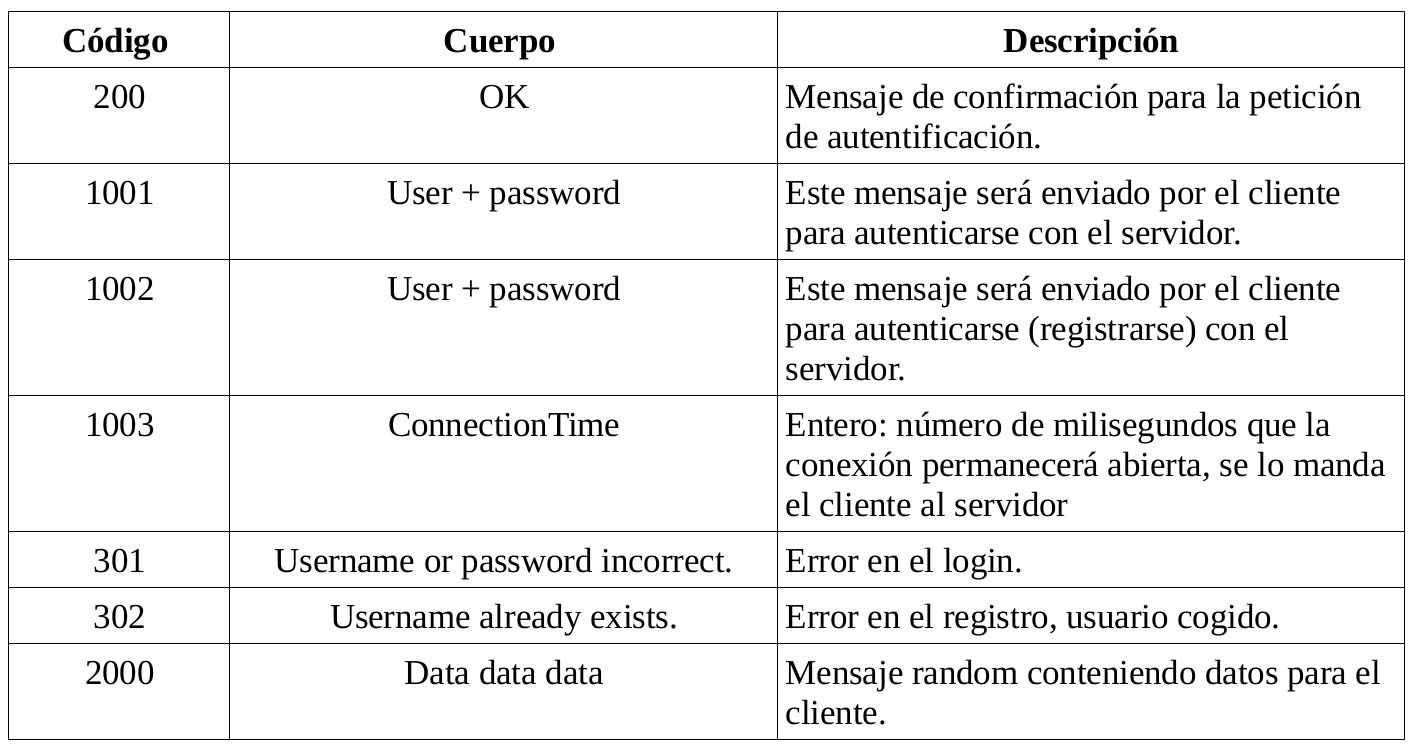
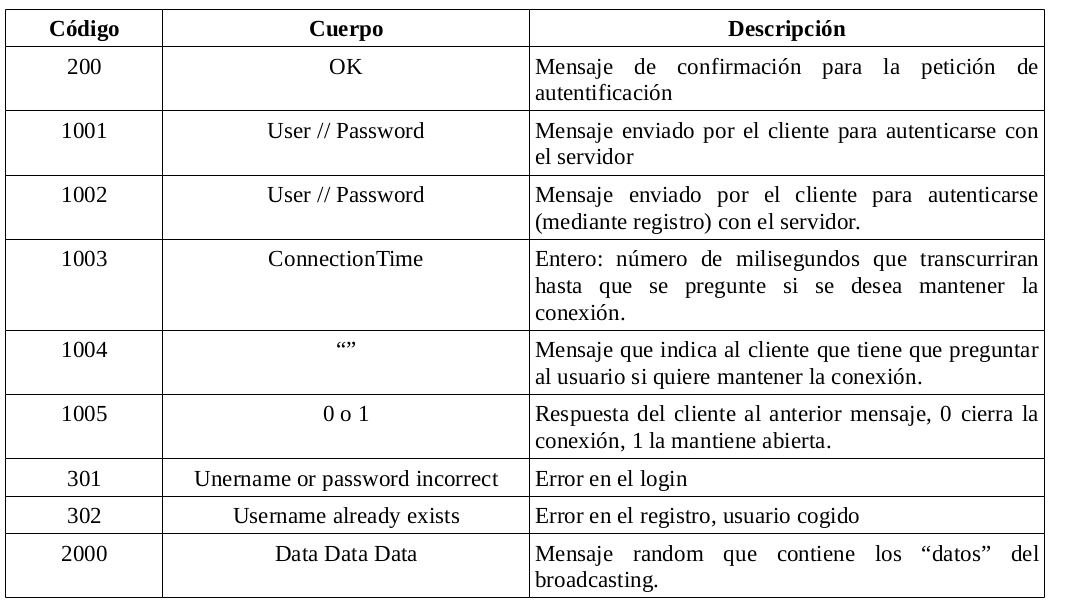
terminado todo lo relacionado a la practica II

diff --git a/FR/Prácticas/Práctica 0/memoria.tex b/FR/Prácticas/Práctica 0/memoria.tex
@@ -1,0 +1,203 @@
+%%%%%%%%%%%%%%%%%%%%%%%%%%%%%%%%%%%%%%%%%
+% University Assignment Title Page 
+% LaTeX Template
+% Version 1.0 (27/12/12)
+%
+% This template has been downloaded from:
+% http://www.LaTeXTemplates.com
+%
+% Original author:
+% WikiBooks (http://en.wikibooks.org/wiki/LaTeX/Title_Creation)
+%
+% License:
+% CC BY-NC-SA 3.0 (http://creativecommons.org/licenses/by-nc-sa/3.0/)
+% 
+% Instructions for using this template:
+% This title page is capable of being compiled as is. This is not useful for 
+% including it in another document. To do this, you have two options: 
+%
+% 1) Copy/paste everything between \begin{document} and \end{document} 
+% starting at \begin{titlepage} and paste this into another LaTeX file where you 
+% want your title page.
+% OR
+% 2) Remove everything outside the \begin{titlepage} and \end{titlepage} and 
+% move this file to the same directory as the LaTeX file you wish to add it to. 
+% Then add \input{./title_page_1.tex} to your LaTeX file where you want your
+% title page.
+%
+%%%%%%%%%%%%%%%%%%%%%%%%%%%%%%%%%%%%%%%%%
+%\title{Title page with logo}
+%----------------------------------------------------------------------------------------
+%	PACKAGES AND OTHER DOCUMENT CONFIGURATIONS
+%----------------------------------------------------------------------------------------
+
+\documentclass[12pt]{article}
+\usepackage[english]{babel}
+\usepackage[utf8x]{inputenc}
+\usepackage{amsmath}
+\usepackage{graphicx}
+\usepackage[colorinlistoftodos]{todonotes}
+
+
+
+\begin{document}
+
+
+\begin{titlepage}
+
+\newcommand{\HRule}{\rule{\linewidth}{0.5mm}} % Defines a new command for the horizontal lines, change thickness here
+
+\center % Center everything on the page
+ 
+%----------------------------------------------------------------------------------------
+%	HEADING SECTIONS
+%----------------------------------------------------------------------------------------
+
+\textsc{\LARGE Universidad de Granada}\\[1.5cm] % Name of your university/college
+\textsc{\large Fundamentos de Redes}\\[0.5cm] % Minor heading such as course title
+
+%----------------------------------------------------------------------------------------
+%	TITLE SECTION
+%----------------------------------------------------------------------------------------
+
+\HRule \\[0.4cm]
+{ \huge \bfseries Dropbox}\\[0.4cm] % Title of your document
+\HRule
+
+\includegraphics[scale=0.19]{logo.png}
+ 
+%----------------------------------------------------------------------------------------
+%	AUTHOR SECTION
+%----------------------------------------------------------------------------------------
+\begin{flushleft} \large
+\emph{Autores:}\\
+Antonio Gámiz Delgado \\
+Samuel Medina Gutiérrez \\
+Laura Sánchez Parra
+\end{flushleft}
+
+% If you don't want a supervisor, uncomment the two lines below and remove the section above
+%\Large \emph{Author:}\\
+%John \textsc{Smith}\\[3cm] % Your name
+
+
+%----------------------------------------------------------------------------------------
+%	LOGO SECTION
+%----------------------------------------------------------------------------------------
+
+
+ 
+%----------------------------------------------------------------------------------------
+
+\vfill % Fill the rest of the page with whitespace
+
+\end{titlepage}
+
+\tableofcontents
+\newpage
+
+\section{Introducción}
+
+Antes de hablar de Dropbox, vamos a comentar brevemente qué es el almacenanmiento en la nube y algunas formas de implementarlo:
+
+Cloud-Storage es un modelo de servicio en el cual los datos son mantenidos, distribuidos, administrados y puestos a la disposición de los usuarios en una red (normalmente Internet). Los usuarios normalmente pagan por este servicio según su consumo, mensualmente, es decir, si quieres tener 5GB de almacenamiento en la nube, deberás pagar esos 5GB cada mes. 
+Aunque el coste por cada GigaByte ha descendido enormemente, los proveedores de cloud storage han añadido más gastos “operativos” que puede hacer esta tecnología un poco más cara. Entre, los que por ejemplo, se encuentra la seguridad, que está siempre presente y en constante mejora ya que es una de las principales preocupaciones de los usuarios.
+
+Este sistema presenta varias ventajas, como la facilidad de acceso a los datos desde cualquier punto con conexión a Internet, desde muchos tipos de dispositivos, la facilidad de recuperación de datos y el ahorro de los costes que conlleva comprar y mantener los propios sistemas de almacenamiento.
+
+\section{Principales Sistemas de Almacenamiento.}
+
+Un sistema de almacenamiento consiste en habilitar uno o varios discos duros de una red local (que a su vez puede estar conectada a Internet) de manera que los datos que allí se almacenen permanezcan accesibles a todos los dispositivos que deseen utilizarlos. De esta forma el usuario dispone de un almacenamiento común con el resto de usuarios.
+La cuestión se complica cuando hay que definir la forma en que los distintos tipos de almacenamiento de datos gestionan esa conexión a tu red local.
+
+\subsection{NAS - Network Attached Storage.}
+
+Este sistema incorpora su propio sistema de conexión y recepción de petición de acceso a los datos, eliminando a los servidores de la ecuación. Los sistemas de almacenamiento NAS se conectan directamente al router (en local, LAN) mediante TCP/IP.
+
+\subsection{SAN - Storage Area Network.}
+
+
+Como un NAS, SAN traspasa la responsabilidad del almacenamiento de los datos de servidores y ordenadores a dispositivos de almacenamiento dedicados. Pero a diferencia de NAS, que es un dispositivo independiente, un SAN es una red de dispositivos de almacenamientos interconectados. Ambos son accedidos a través de la red local a la que están conectados.
+
+Este tipo de sistema usa dos protocolos:
+\begin{itemize}
+\item Protocolo de canal de fibra (FCP): es la interfaz del protocolo SCSI (Small Computer System Interface) usando conexión de fibra óptica por debajo. Protocolo de alta velocidad que soporta la mayoría de canales y redes, ya que provee un estándar para el almacenamiento y la transferencia de datos.
+\item Interfaz SCSI (iSCSI): protocolo que usa TCP/IP para la transferencia de datos. A diferencia del canal de fibra, solamente requiere Ethernet (o cualquier otra red compatible con TCP/IP) para funcionar. Esto permite soluciones menos costosas.
+\end{itemize}
+
+Dado que Dropbox es una empresa privada, nadie sabe exactamente cómo implementan su servicio de almacenamiento, pero se cree que usan mayormente SAN.
+
+\section{Dropbox}
+
+\subsection{¿Qué es Dropbox?}
+Dropbox se define a si mismo como una CDN (Content Delivery Network), es decir, un conjunto de servidores que contienen copias de una misma serie de contenidos (imágenes, vídeos, documentos, etc) y que están ubicados en puntos diversos de una red para poder servir sus contenidos de manera más eficiente. Normalmente usan protocolos TCP/IP y TLS que reducen la latencia.
+\subsection{Edge Network}
+Para facilitar al usuario una mejor experiencia, se emplean protocolos TCP/IP y TLS más cercanos a los usuarios, ya que reducen la latencia, es decir, los retardos. Dropbox está formado por una serie de PoPs (Points of Presence) situados estratégicamente alrededor del mundo para reducir los tiempos de retardo.
+
+Por lo que, la Edge Network de Dropbox es, el conjunto de PoPs que permiten reducir los tiempos de latencia.
+
+\subsection{GSLB - Global Server Load Balancing}
+
+¿Cómo distribuye Dropbox los usuarios entre los Pops? Utiliza GSLB, normalmente GSLB envía cada usuario al Pop más cercano, a no ser que el Pop este inhabilitado.
+
+\subsubsection{BGP anycast}
+Anycast es el método más fácil de loadbalancing. Usa el protocolo de routing del núcleo de Internet, BGP (Border Gateway Protocol - protocolo meidente el cuál se intercambia información de encaminamiento entre sistemas autónomos). Para empezar a usar anycast es suficiente con empezar a "publicar" la misma subred desde todos los PoPs e Internet entregerá cada paquete al PoP "óptimo" automáticamente. Aunque parece ser un muy buen método, tiene varias desventajas, como el limitado control que se tiene sobre el tráfico y es difícil mover tráfico implícitamente de un PoP a otro.
+
+BGP anycast en Dropbox: debido a sus desventajas, sólo se usa para los dominos APEX, como dropbox.com (sin www) y como "último recurso" en caso de un ataque DDoS.
+
+\subsubsection{GeoDNS}
+En este método cada PoP tiene su propio y único espacio de direcciones IP y DNS es el responsable de asignar a IP diferente a cada usuario basado en su localización geográfica. Esto nos da más control sobre la dirección del tráfico, además, la configuración es más fácil y la solución de problemas es más simple.
+
+GeoDNS en Dropbox: En este momento, están trabajando con el enrutamiento basado en LatLong (coordenadas geográficas), que es relativamente complejo.
+
+\subsubsection{Hybrid unicast/anycast GSLB}
+
+Combinación de las dos anteriores, que permite beneficiarse de las ventajas de los dos métodos.
+
+\subsubsection{Real User Metrics}
+Los métodos anteriores tienen un problema: ninguno de ellos usa datos de performance (actuación) percibido por los usuarios, sino que dependen en aproximaciones. Para arreglar eso, RUM usa datos de de las performances de los clientes de escritorio.
+
+RUM en Dropbox: todavía es un proyecto en evolución que todavía no está implementado para el público general, pero se están realizando experimentos y recogiendo datos de los métodos anteriores para poder llegar a usar hasta 25-30 PoPs.
+
+\subsection{Backbone Network}
+
+Junto con la edge network, Dropbox ha creado una backbone network que permite la interconexión entre los data centers de Norte América, pero no sólo entre ellos, sino también con los nodos edge alrededor del mundo. ¿Por qué fue necesario crear tanto una edge network como una backbone network? Debido al número de usuarios  y la cantidad de datos que almacena cada uno de ellos y sobre todo al masivo crecimiento de los mismos, que hacía cada vez menos eficiente el almacenamiento en Dropbox. 
+
+\subsection{Tipos de routers}
+La red troncal de Dropbox consta de enrutadores con tres funciones distintas:
+\begin{itemize}
+\item Enrutadores del centro de datos (DR): con una función principal de conectar el centro de datos a la red troncal.
+\item Enrutadores de red troncal (BB): que actúan como un punto de terminación para circuitos de larga distancia y también como dispositivos de agregación para DR en regiones donde tenemos centros de datos.
+\item Peering Routers (PR): con una función principal de conectar Dropbox a pares BGP externos para proporcionar conectividad a Internet
+\item Data Centers (DC): para conectar los data centers.
+\end{itemize}
+
+\subsection{Arquitectura de 2 niveles}
+
+La red de Dropbox tiene dos tipos de tráfico: "tráfico de usuario" el cuál fluye entre Dropbox e Internet, y "tráfico del data center", el cuál fluye entre los data centers de Dropbox.
+
+En la nueva arquitectura, existen dos dominios de red para manejar cada tipo de tráfico de forma independiente. El nivel DC lleva el tráfico del centro de datos, mientras que el nivel DR se usa para transportar el tráfico de usuarios, principalmente desde Dropbox a Internet. Cada nivel tiene su propia malla BGP, pero se conectan al mismo conjunto de enrutadores de red troncal (BB), que comparten la misma red de transporte físico.
+
+El tráfico entre data centers es aproximadamente el doble del tráfico de usuarios y ambos tienen características diferentes. El tráfico del centro de datos consiste en servicios internos que se comunican entre sí o que copian datos de un centro de datos a otro. El tráfico de usuarios siempre se está transportando desde los DR a un punto de presencia, y se trata como tráfico premium. El despegue del tráfico interno de Dropbox a su propio nivel ha permitido una clara separación entre los dos tipos de tráfico, lo que ayuda a crear perfiles de tráfico y topologías de red que son únicas para cada tipo de tráfico.
+
+\section{Dropbox LAN Sync}
+
+Para terminar, vamos a hablar de una de las nuevas funciones de Dropbox, Dropbox LAN Sync:
+
+Dropbox LAN Sync es una función que le permite descargar archivos de otras computadoras en su red, ahorrando tiempo y ancho de banda en comparación con descargarlos desde los servidores de Dropbox.
+En vez de almacenar los archivos en los servidores de Dropbox, cualquier ordenador conectado a la misma red, podrá acceder a los demás  y descargar el archivo directamente desde allí sin tener que acceder a la nube.
+Para comprender cómo funciona, primero debemos hablar de abstracciones que usa DropBox: Bloques y nameSpaces. Los archivos en DropBox están separados en bloques de 4MB direccionados por funciones HASH. Por tanto un archivo puede ser descrito por una lista de “Hashes”.
+
+Los Espacios de nombre pueden ser pensados como directorios con permisos específicos. Cada cuenta tiene un espacio de nombre que representa su cuenta personal  y todos los archivos que contiene. 
+En conclusión,  la petición de descargas de archivos puede pensarse como una serie de peticiones de pares (espacio de nombres, Hashes) para indicar el/los bloques específicos. Sin LAN Sync estas peticiones se meterían en una cola  y enviadas al servidor de bloques que devuelve un bloque de datos y por tanto no es necesario que la tubería de descarga conozca cosas como el nombre del archivo.
+
+Esto también significa que LAN Sync  solo sincroniza los datos reales de los archivos  y no los metadatos. Asegurando que todos los metadatos recibidos provienen de los servidores de DropBox podemos tener la certeza de que todos están siempre en un estado consistente. Con el LAN Sync intentamos descargar los bloques directamente del peer de la conexión, accediendo si no es posible al servidor de bloques.
+
+Esta tecnología tiene tres componentes principales:
+\begin{itemize}
+\item El “Discovery engine” que trata de encontrar máquinas que estén conectadas en la red que se puedan sincronizar. Para hacer esto cada máquina envía y escucha periódicamente de paquetes UDP sobre el puerto 17500. Estos paquetes contienen información sobre el protocolo usado, el espacio de nombres soportado…
+\item Protocolo:  la transferencia del bloque se hace mediante HTTPS.
+\item Servidor/Cliente: el servidor maneja peticiones de los clientes conectados en el servidor, proveyendo los bloques de datos solicitados. Los clientes solo son responsables de realizar las peticiones.  
+\end{itemize}
+
+\end{document}

diff --git a/FR/Prácticas/PracticaII/memoria/memoria.tex b/FR/Prácticas/PracticaII/memoria/memoria.tex
@@ -69,27 +69,27 @@
 
 \section{Descripción.}
 
-Para esta práctica he hecho una aplicación que da un servicio de \textit{login} y \textit{broadcasting}. El objetivo de la misma es permitir al cliente que se registre e inicie sesión con un \textit{usuario} y \textit{contraseña} definidos por él. Una vez haya iniciado sesión, al cliente se la pregunta por un tiempo de conexión, en milisegundos. Ese dato indica durante cuanto tiempo estará recibiendo datos, y una vez pasado ese tiempo, se procederá a la desconexión y cierre de la conexión.
+Para esta práctica he hecho una aplicación que da un servicio de \textit{login} y \textit{broadcasting}. El objetivo de la misma es permitir al cliente que se registre e inicie sesión con un \textit{usuario} y \textit{contraseña} definidos por él. Una vez haya iniciado sesión, al cliente se le pregunta por un tiempo de conexión, en milisegundos. Ese dato indica durante cuanto tiempo estará recibiendo datos, y una vez pasado ese tiempo, se preguntará al cliente si quiere seguir con la conexión abierta, cerrándose la conexión si así se quiere.
 
 Para implementar esta aplicación, he creado un nuevo protocolo usando como base TCP. Los elementos de este protocolo pueden encontrarse en el archivo \textit{Protocolo.java}. Clase creada para almacenar los códigos de los distintos paquetes, así como dos métodos para recibir y emitir paquetes, para hacer el código de la aplicación más simple y entendible. 
 
 El servidor es concurrente, cada vez que llega una nueva conexión se lanza una nueva hebra (instancia de la clase \textit{User} (\textit{User.java}), que se encarga de identificar al cliente ( método \textit{identify()} y de efectuar la posterior desconexión del mismo. 
 
-Al inicializar el servidor, se crea una nueva hebra, instancia de la clase \textit{Transmitter} (\textit{Transmitter.java}), que se encarga de hacer el \textit{broadcasting} de los datos a todos los clientes conectados a través de un \textit{ArrayList\textless User\textgreater} que mantiene el Server con todas los usuarios conectados en ese momento.
+Al inicializar el servidor, se crea una nueva hebra, instancia de la clase \textit{Transmitter} (\textit{Transmitter.java}), que se encarga de hacer el \textit{broadcasting} de los datos a todos los clientes conectados a través de un \textit{ArrayList\textless User\textgreater} que mantiene el Server con todos los usuarios conectados en ese momento.
  
 \section{Diagrama de estados del servidor.}
 
 \begin{figure}[h]
 \center
-\includegraphics[scale=0.70]{diagram.png}
+\includegraphics[scale=0.3]{diagram.png}
 \end{figure}
-
+\newpage
 \section{Mensajes que intervienen}
 \begin{figure}[h]
 \center
-\includegraphics[scale=0.3]{codes.png}
+\includegraphics[scale=0.45]{codes.png}
 \end{figure}
-\
+\newpage
 \section{Evaluación de la aplicación.}
 
 \begin{figure}[h]
@@ -102,13 +102,14 @@ Al inicializar el servidor, se crea una nueva hebra, instancia de la clase \text
 \caption{Nos logeamos otra vez con el usuario creado.}
 \end{figure}
 \newpage
-\begin{figure}[t]
+\begin{figure}[h]
 \center
 \includegraphics[scale=0.45]{5.png}
 \caption{Intetamos logearnos con un usuairo inexistente.}
 \includegraphics[scale=0.45]{6.png}
 \caption{Intentamos registrarnos con un usario ya existente.}
-
+\includegraphics[scale=0.45]{7.png}
+\caption{Realizamos todo lo anterior y cerramos la conexión cuando nos lo solicitan.}
 \end{figure}
 
 \end{document}

diff --git a/FR/Prácticas/PracticaII/Ejercicio5/codigo/User.java b/FR/Prácticas/PracticaII/Ejercicio5/codigo/User.java
@@ -86,13 +86,31 @@ public class User extends Thread {
     @Override
     public void run() {        
         identify();
+        String messageReceived[];
+        int code;
+        boolean connected = true;
         
-        String messageReceived[] = Protocol.receivePacket( inReader );
-        int code = Integer.parseInt( messageReceived[0] );
+        //Guardamos cada cuanto tiempo quiere que le preguntemos si 
+        //desea seguir conectado
+        messageReceived = Protocol.receivePacket( inReader );
+        code = Integer.parseInt( messageReceived[0] );
         if( code == Protocol.CONNECTIONTIME ) {
             connectionTime = Integer.parseInt( messageReceived[1] );
-            try { Thread.sleep( connectionTime ); } catch( Exception e ) {};
         }
+
+        //Dormimos durante el tiempo fijado, mandamos paquete para 
+        //ver si seguimos conectados o no.
+        do{
+            try { Thread.sleep( connectionTime ); } catch( Exception e ) {};
+            Protocol.emitPacket(outPrinter, Protocol.STAYCONNECTED, "");
+            messageReceived = Protocol.receivePacket( inReader );
+            code = Integer.parseInt( messageReceived[0] );
+            if( code == Protocol.STAYCONNECTEDANSWER ){
+                if( "0".equals(messageReceived[1]) )
+                    connected = false;
+            }
+        } while ( connected );
+
         Protocol.emitPacket(outPrinter, Protocol.DISCONNECT, "");
         System.out.println( "Closing connection..." );
         try { serviceSocket.close(); } catch ( Exception e ) {};

diff --git a/FR/Prácticas/PracticaII/Ejercicio5/codigo/Client.java b/FR/Prácticas/PracticaII/Ejercicio5/codigo/Client.java
@@ -30,7 +30,7 @@ public class Client {
     public static void main ( String[] args ) {
         
         System.out.println( "Initialising ChatterClient..." );
-
+        
         int port = 30000;
         String host = "localhost";
         
@@ -48,17 +48,22 @@ public class Client {
             System.out.println( "¿How long do you want to receive data (in ms) ?" );
             String time = S.nextLine();
             Protocol.emitPacket( outPrinter, Protocol.CONNECTIONTIME, time );
-            messageReceived = Protocol.receivePacket( inReader );
             
+            String answer;
             do{
                 messageReceived = Protocol.receivePacket( inReader );
                 code = Integer.parseInt( messageReceived[0] );
                 
                 if ( code == Protocol.DATA ) {
                     System.out.println( "Data Packet received: " + messageReceived[1] );
+                } else if( code == Protocol.STAYCONNECTED ){ 
+                    System.out.println( "¿Do you want to stay connected? (0->NO, 1-> YES)" );
+                    answer = S.nextLine();
+                    Protocol.emitPacket( outPrinter, Protocol.STAYCONNECTEDANSWER, answer );
                 } else if ( code == Protocol.DISCONNECT ) {
                     connected = false;
-                    System.out.println( "Connection time expired. Disconnecting..." );
+                    serviceSocket.close();
+                    System.out.println( "Connection closed." );
                 }
                 
             } while( connected );

diff --git a/FR/Prácticas/PracticaII/Ejercicio5/codigo/Transmitter.java b/FR/Prácticas/PracticaII/Ejercicio5/codigo/Transmitter.java
@@ -19,7 +19,7 @@ public class Transmitter extends Thread {
                 if ( user.isLogin() )
                     Protocol.emitPacket( user.getOutPrinter(), Protocol.DATA, "data data data" );
             }
-            try { Thread.sleep(500); } catch (InterruptedException e) {};
+            try { Thread.sleep(1000); } catch (InterruptedException e) {};
         } while ( true );
     }
 }

diff --git a/FR/Prácticas/PracticaII/Ejercicio5/codigo/Protocol.java b/FR/Prácticas/PracticaII/Ejercicio5/codigo/Protocol.java
@@ -19,6 +19,8 @@ public class Protocol {
     static int LOGIN = 1001;
     static int REGISTRATION = 1002;
     static int CONNECTIONTIME = 1003;
+    static int STAYCONNECTED = 1004;
+    static int STAYCONNECTEDANSWER = 1005;
     static int OK = 200;
     static int LOGINERROR = 301;
     static int USERTAKEN = 302;
